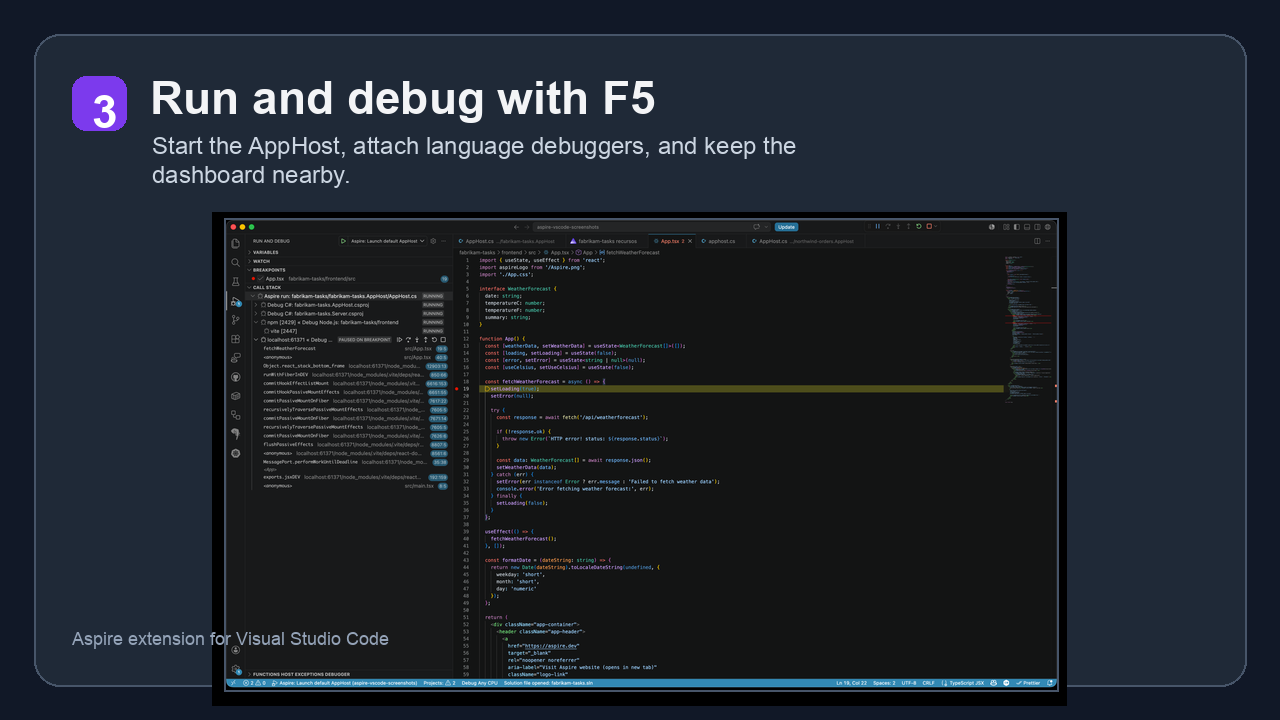
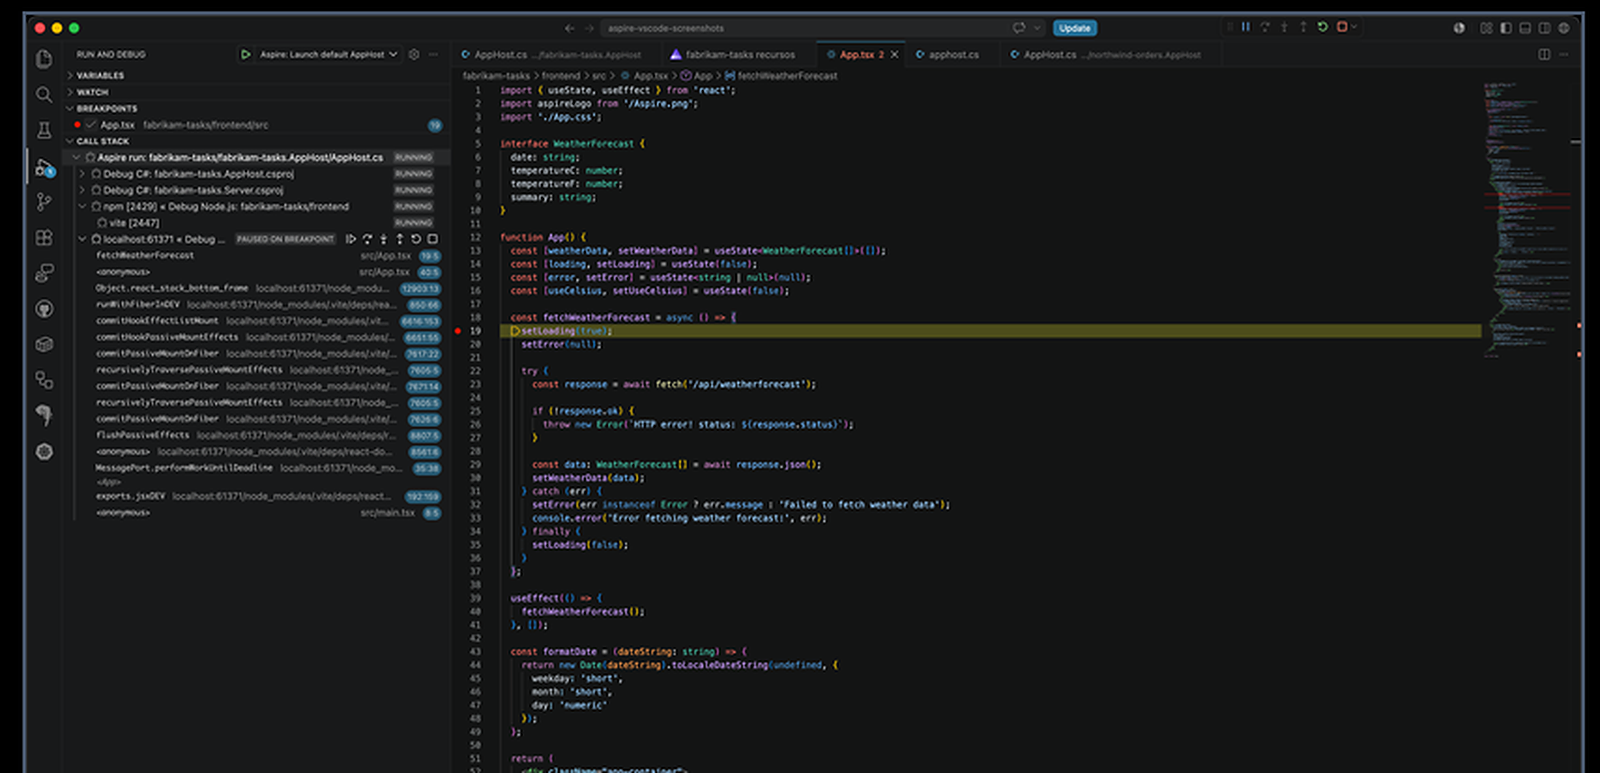
Update VS Code extension README assets

diff --git a/extension/src/test/appHostDiscovery.test.ts b/extension/src/test/appHostDiscovery.test.ts
@@ -311,6 +311,40 @@ suite('AppHost discovery', () => {
             }
         });
 
+        test('adapts legacy get-apphosts candidates as buildable C# AppHosts', async () => {
+            stubFileSystemWatchers(sandbox);
+            const appHostPath = buildPath('workspace', 'AppHost', 'AppHost.csproj');
+            sandbox.stub(cliModule, 'spawnCliProcess').callsFake((_terminalProvider, _command, args = [], options) => {
+                if (args[0] === 'ls') {
+                    options?.stderrCallback?.('aspire ls unavailable');
+                    options?.exitCallback?.(1);
+                }
+                else {
+                    options?.stdoutCallback?.(JSON.stringify({
+                        selected_project_file: appHostPath,
+                        all_project_file_candidates: [appHostPath],
+                    }));
+                    options?.exitCallback?.(0);
+                }
+                return { kill: () => { } } as any;
+            });
+            const service = new AppHostDiscoveryService(makeTerminalProvider());
+
+            try {
+                const result = await service.discover(makeWorkspaceFolder(buildPath('workspace')));
+
+                assert.deepStrictEqual(result, [{
+                    path: appHostPath,
+                    language: 'csharp',
+                    status: 'buildable',
+                    selected: true,
+                }]);
+            }
+            finally {
+                service.dispose();
+            }
+        });
+
         test('reports both aspire ls and legacy fallback errors when discovery fails', async () => {
             stubFileSystemWatchers(sandbox);
             sandbox.stub(cliModule, 'spawnCliProcess').callsFake((_terminalProvider, _command, args = [], options) => {
@@ -421,6 +455,50 @@ suite('AppHost discovery', () => {
             const excludePatterns = findFilesStub.getCalls().map(call => String(call.args[1]));
             assert.ok(excludePatterns.length > 0);
             assert.ok(excludePatterns.every(pattern => pattern.includes('**/.worktrees/**')));
+        });
+
+        test('configured C# AppHost candidate resolves editor source file', async () => {
+            const tempDir = fs.mkdtempSync(path.join(os.tmpdir(), 'aspire-apphost-discovery-'));
+            try {
+                stubFileSystemWatchers(sandbox);
+                const configPath = path.join(tempDir, 'aspire.config.json');
+                const appHostProjectPath = path.join(tempDir, 'AppHost', 'AppHost.csproj');
+                const appHostProgramPath = path.join(tempDir, 'AppHost', 'Program.cs');
+
+                fs.mkdirSync(path.dirname(appHostProjectPath), { recursive: true });
+                fs.writeFileSync(configPath, JSON.stringify({ appHost: { path: 'AppHost/AppHost.csproj' } }));
+                findFilesStub.callsFake(async (include: vscode.GlobPattern) => {
+                    const pattern = typeof include === 'string' ? include : include.pattern;
+                    return pattern.endsWith('aspire.config.json')
+                        ? [vscode.Uri.file(configPath)]
+                        : [];
+                });
+                sandbox.stub(cliModule, 'spawnCliProcess').callsFake((_terminalProvider, _command, _args, options) => {
+                    options?.stdoutCallback?.('[]');
+                    options?.exitCallback?.(0);
+                    return { kill: () => { } } as any;
+                });
+                const service = new AppHostDiscoveryService(makeTerminalProvider());
+
+                try {
+                    const result = await service.discover(makeWorkspaceFolder(tempDir));
+                    const sourceFileCandidate = await service.tryFindCandidateForEditorFile(appHostProgramPath, makeWorkspaceFolder(tempDir));
+
+                    assert.deepStrictEqual(result, [{
+                        path: appHostProjectPath,
+                        language: 'csharp',
+                        status: 'buildable',
+                        selected: true,
+                    }]);
+                    assert.strictEqual(sourceFileCandidate?.path, appHostProjectPath);
+                }
+                finally {
+                    service.dispose();
+                }
+            }
+            finally {
+                fs.rmSync(tempDir, { recursive: true, force: true });
+            }
         });
 
         test('selects configured path from recursive config during service discovery', async () => {

diff --git a/extension/src/utils/appHostDiscovery.ts b/extension/src/utils/appHostDiscovery.ts
@@ -8,7 +8,7 @@ import { aspireConfigFileName, getAppHostPathFromConfig, readJsonFile } from './
 import { EnvironmentVariables } from './environment';
 import { extensionLogOutputChannel } from './logging';
 import { getAppHostDiscoveryTimeoutMs } from './settings';
-import { summarizeAppHostLanguages } from './appHostLanguage';
+import { classifyAppHostPath, summarizeAppHostLanguages } from './appHostLanguage';
 import { sendTelemetryEvent } from './telemetry';
 
 // Mirrors the `aspire ls --format json` candidate shape documented in
@@ -253,11 +253,12 @@ export class AppHostDiscoveryService implements vscode.Disposable {
             }));
         }
 
+        const configuredLanguage = classifyAppHostPath(configuredPath);
         return [
             ...candidates,
             {
                 path: configuredPath,
-                language: null,
+                language: configuredLanguage === 'unknown' ? null : configuredLanguage,
                 status: 'buildable',
                 selected: true,
             },
@@ -660,8 +661,8 @@ function isAppHostProjectSearchResult(obj: unknown): obj is AppHostProjectSearch
 function toCandidatesFromLegacySearchResult(parsed: LegacyAppHostProjectSearchResult): CandidateAppHostDisplayInfo[] {
     return parsed.all_project_file_candidates.filter(candidate => typeof candidate === 'string').map(candidatePath => ({
         path: candidatePath,
-        language: null,
-        status: null,
+        language: 'csharp',
+        status: 'buildable',
         selected: typeof parsed.selected_project_file === 'string' && isSamePath(parsed.selected_project_file, candidatePath),
     }));
 }
@@ -669,12 +670,12 @@ function toCandidatesFromLegacySearchResult(parsed: LegacyAppHostProjectSearchRe
 function isCSharpProjectCandidate(candidate: CandidateAppHostDisplayInfo): boolean {
     // Only `.csproj` candidates can own nearby C# source files for the editor alias
     // heuristic above. Modern `aspire ls` candidates include the CLI language id
-    // (`language: "csharp"`); legacy `aspire extension get-apphosts` fallback
-    // candidates do not have a language, so `null` is treated as C# here to
-    // preserve old CLI support while keeping the compatibility gap local to
+    // (`language: "csharp"`). Legacy `aspire extension get-apphosts` fallback
+    // candidates are adapted to that modern C# shape before reaching here. That
+    // preserves old CLI support while keeping the compatibility gap local to
     // candidate adaptation/matching.
     return path.extname(candidate.path).toLowerCase() === '.csproj'
-        && (candidate.language === null || candidate.language.toLowerCase() === 'csharp');
+        && candidate.language?.toLowerCase() === 'csharp';
 }
 
 function isCSharpSourceFileForProjectCandidate(filePath: string, projectPath: string): boolean {

diff --git a/extension/README.md b/extension/README.md
@@ -27,7 +27,6 @@ Aspire helps you build distributed apps — things like microservices, databases
 
 | Feature | Description |
 |---------|-------------|
-| **AppHost discovery** | Open a repo and let the extension find project-based C# AppHosts and TypeScript AppHosts |
 | **Run & debug** | Start your whole app and attach debuggers to every service with F5 |
 | **Dashboard** | See your resources, endpoints, logs, traces, and metrics while your app runs |
 | **Sidebar** | Browse running apphosts and resources in the Activity Bar |